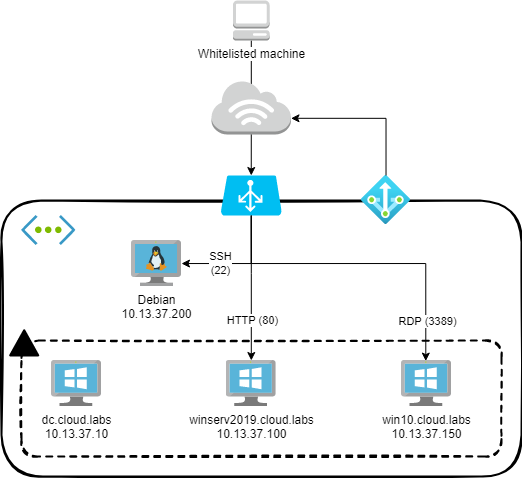
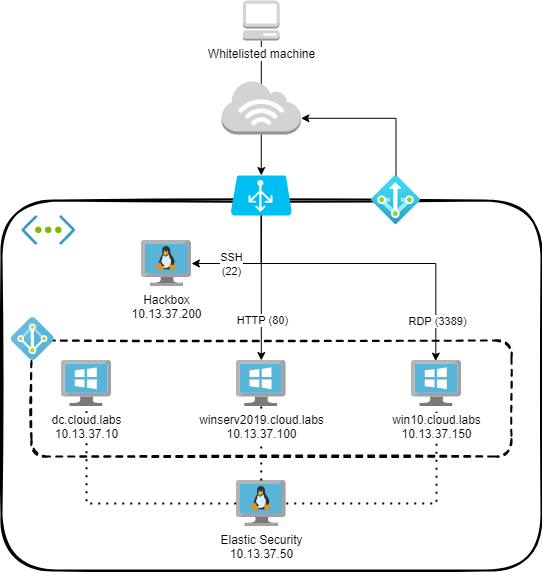
Update docs

Changed region(s): [[0.0, 0.0293, 1.0, 1.0], [0.9195, 0.3515, 0.9808, 0.3808]]

diff --git a/README.md b/README.md
@@ -34,7 +34,8 @@ The labs consist of a selection of machines:
 - Windows Server 2019
     - Internet Information Servicies (IIS) web server with simple vulnerable app
 - Windows 10 client
-- Debian box with Elastic EDR
+- Debian box with Elastic Endpoint Security
+    - Elastic Agent is deployed to all Windows machines via Fleet
 - Debian attacker box
 
 One public IP is exposed for the whole lab. The IP ranges defined in the `ip-whitelist` are allowed to access the following ports on this IP address, which are bound to the following services using a load balancer:
